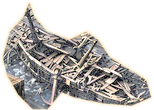
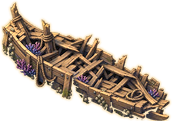
Dock map: new painted shipwreck (Scenario, dock picture style, no flags) replaces the wreck cut from the picture
Claude-Session: https://claude.ai/code/session_01FD443agZjoLT4rrjxRyuet

diff --git a/build_tools/art/brinewake_dock_props.py b/build_tools/art/brinewake_dock_props.py
@@ -6,7 +6,10 @@ ship in the middle just without the flags and a little bit less obstacles".
 The automatic cut-out (arena_props.py, rembg) loses these dark objects in the
 dark dock floor, so each piece is cut with a traced outline instead.
 Writes art/maps/arena_look/brinewake/prop_<name>.png:
-  wreck       the shipwreck, drawn as the centrepiece on (7, 7)
+  wreck       the shipwreck, drawn as the centrepiece on (7, 7). Mauro 5 Oct
+              2026: "do your own ship, that looks like you copy and paste a bad
+              image". Painted with Scenario (style from the dock picture, no
+              flags) and cut from its black backdrop: refs/brinewake_wreck_painted.png
   wreck_side  clear 1x1: the wreck's flank cells (they block, the art is the centrepiece)
   coral_rock  barnacled coral rock (obstacle)
   crate       braced cargo crate (obstacle)
@@ -20,6 +23,8 @@ import os
 from PIL import Image, ImageDraw, ImageEnhance, ImageFilter
 
 REF = "art/maps/arena_look/refs/brinewake_look.jpg"
+WRECK = "art/maps/arena_look/refs/brinewake_wreck_painted.png"
+WRECK_W = 168
 OUT = "art/maps/arena_look/brinewake/"
 MAX_H = 92
 # Brightness lift (see cut).
@@ -32,9 +37,6 @@ RIM_ALPHA = 210
 
 # name -> (outline polygons in picture px, sprite width in board px, max height)
 PIECES = {
-    "wreck": ([[(1270, 470), (1318, 418), (1338, 368), (1356, 418), (1400, 468), (1480, 498), (1540, 470),
-                (1582, 500), (1622, 560), (1700, 608), (1750, 640), (1768, 700), (1700, 730), (1600, 722),
-                (1500, 702), (1452, 682), (1402, 742), (1350, 742), (1300, 692), (1260, 622), (1245, 560)]], 150, 140),
     "coral_rock": ([[(1800, 470), (1835, 468), (1845, 490), (1825, 520), (1830, 560), (1860, 580), (1880, 610),
                      (1870, 640), (1820, 650), (1760, 648), (1720, 640), (1708, 610), (1715, 570), (1740, 545),
                      (1760, 520), (1770, 495), (1785, 480)]], 46, MAX_H),
@@ -72,19 +74,6 @@ def cut(img, polys, width, max_h):
     return rgb
 
 
-def calm_water(sprite):
-    """Mauro 5 Oct 2026 ("improve the map I told you I like"): the wreck keeps
-    some of the picture's sea around it; tone the blue down so the hull reads."""
-    px = sprite.load()
-    for y in range(sprite.height):
-        for x in range(sprite.width):
-            r, g, b, a = px[x, y]
-            if a and b > r + 25:
-                grey = (r + g + b) // 3
-                px[x, y] = ((r + grey) // 2, (g + grey) // 2, (b + grey) // 2 + 4, a * 3 // 4)
-    return sprite
-
-
 def rim(sprite, pad=RIM_PAD):
     """Soft warm rim so each piece stands out from the dark dock planks
     (Mauro: obstacles you cannot see or tell apart). No bottom pad: the
@@ -106,11 +95,19 @@ def main():
     os.makedirs(OUT, exist_ok=True)
     for name, (polys, width, max_h) in PIECES.items():
         sprite = cut(img, polys, width, max_h)
-        if name == "wreck":
-            sprite = calm_water(sprite)
         sprite = rim(sprite)
         sprite.save(os.path.join(OUT, "prop_%s.png" % name), optimize=True)
         print(name, sprite.size)
+    wreck = Image.open(WRECK).convert("RGBA")
+    wreck = wreck.resize((WRECK_W, round(wreck.height * WRECK_W / wreck.width)), Image.LANCZOS)
+    # Small on the board the hull's inner shadows close up; open them a little.
+    alpha = wreck.getchannel("A")
+    rgb = wreck.convert("RGB").point(lambda v: round(255 * (v / 255.0) ** 0.8))
+    rgb = ImageEnhance.Brightness(rgb).enhance(1.2)
+    rgb.putalpha(alpha)
+    wreck = rim(rgb)
+    wreck.save(os.path.join(OUT, "prop_wreck.png"), optimize=True)
+    print("wreck", wreck.size)
     Image.new("RGBA", (1, 1), (0, 0, 0, 0)).save(os.path.join(OUT, "prop_wreck_side.png"))
     print("wreck_side hidden")
 

diff --git a/docs/CHANGE_LOG_CLAUDE.md b/docs/CHANGE_LOG_CLAUDE.md
@@ -144,7 +144,7 @@ on those branches) → the in-game **Actualizar** button.
 | (docs) | **PC team: only PC** (Mauro 2 Oct 2026: "the new team should only touch the pc documents"). `docs/PC_TEAM_HANDOFF.md`: PC team writes only `main` (via PRs) and `pc/*` branches, only PC docs (`docs/CHANGE_LOG_PC.md`, `docs/pc/`, the handoff); phone docs and branches are read-only for them; no APKs. No game change | Mauro | see PC-only commit |
 | (docs) | **PC team job: finish Crosshaven** (Mauro 2 Oct 2026: "Dont give instruccions to work on the characters just keep building the map dungeons npc with a story side line mission etc etc focus in finishing only crosshaven"). `docs/PC_TEAM_HANDOFF.md`: map (11 zones), dungeon entrance to Threshgate, NPCs, story, side missions; story / quests are proposals until Mauro approves; no character work, no other regions, no rule changes; start from `cursor/crosshaven-v6-world-2bb7`. No game change | Mauro | see Crosshaven-focus commit |
 | 0.1.116 | **The dock map (Brinewake Koliseo) rebuilt like Mauro's dock picture** (Mauro 5 Oct 2026: "obstacles have to be something above the ground ... that a ship could have or a dock has", then after previews "dont put too many obstacles / Dont do the flag / I really like the rocks that looks like coral and the plants ... that map that you sent me its even better the ship in the middle just without the flags and a little bit less obstacles"). Pieces cut by traced outline from `art/maps/arena_look/refs/brinewake_look.jpg` (the automatic cut lost them in the dark floor) and lifted to the board's lighting: `build_tools/art/brinewake_dock_props.py` writes `prop_wreck` (shipwreck), `prop_coral_rock`, `prop_crate`, `prop_chest`, `prop_coral`, `prop_wreck_side` (clear). Layout `build_tools/art/brinewake_dock_layout.py` (tags + the Tiled file): 11 obstacle tiles / 9 pieces instead of 13 — the wreck across (6,7) (7,7) (8,7) drawn once as the centrepiece, coral rocks (3,3) (11,3) (3,11) (11,11), crates (7,2) (7,12), chests (1,4) (13,10); coral plants on six water tiles; driftwood, rubble, ruins, fences (flags) and the old dark rock / pillar holes removed; the eight raised blocks hugging the middle flattened so the wreck shows. `CellTagMap.BLOCKING_PROPS` + coral_rock / crate / chest / wreck_side (block walk and sight). `ArenaLook` brinewake centrepiece "wreck" only where the tags carry `wreck_side` (the Brinewake dungeon rooms do not get it); a centrepiece tile draws one row higher so the tiles in front do not cut it. Obstacle glow now sits under the obstacle (it hid the dark pieces) and only bare holes get the shade. Test: Koliseo maps `_test_brinewake_dock_layout`. Stamp 0.1.116 (code 117). All 24 suites pass | Mauro | see 0.1.116 commits |
-| 0.1.117 | **Dock map pieces easier to see** (Mauro 5 Oct 2026: "I like this one can you just improve it a little more", then "Improve the map i told you i like"). Same layout and pieces as 0.1.116. `build_tools/art/brinewake_dock_props.py`: shadows opened (gamma 0.62) before the lift (1.75) so the coral rocks and wreck are no longer black on the planks; a soft warm rim around every piece (wreck, coral rocks, crates, chests, coral plants) so obstacles stand out from the floor; the sea patch cut with the wreck toned down so the hull reads. Stamp 0.1.117 (code 118). All 24 suites pass | Mauro | see 0.1.117 commits |
+| 0.1.117 | **Dock map pieces easier to see** (Mauro 5 Oct 2026: "I like this one can you just improve it a little more", then "Improve the map i told you i like"). Same layout and pieces as 0.1.116. `build_tools/art/brinewake_dock_props.py`: shadows opened (gamma 0.62) before the lift (1.75) so the coral rocks and wreck are no longer black on the planks; a soft warm rim around every piece (wreck, coral rocks, crates, chests, coral plants) so obstacles stand out from the floor; **new shipwreck painted for the game** (Mauro: "Can you just do your own ship that looks like you copy and paste a bad image"): made with Scenario from the dock picture's style (no flags, no water), cut from its black backdrop into `art/maps/arena_look/refs/brinewake_wreck_painted.png`; `brinewake_dock_props.py` now scales it to 168 px, opens its shadows a little and adds the same rim; it replaces the wreck cut from the picture. Same cells, still blocks walk and sight. Stamp 0.1.117 (code 118). All 24 suites pass | Mauro | see 0.1.117 commits |
 | 0.1.115 | **The walk-blocked marks match each map instead of red** (Mauro 5 Oct 2026: "Instead of being red make look a style with the map just make it obvious that its a cell that you cannot use maybe the water tiles you should already know you cannot walk there but maybe put it like a glow"). `SnapshotTiles.walk_block_kind`: "liquid" (water / mud / lava) or "block" (hole / solid obstacle). `BoardTile._paint_walk_blocked` draws a soft inner glow (four fading rings): liquid tiles only glow in their own colour (water cyan, mud tan, lava orange); holes and obstacles get a light shade plus a glow in the map accent (`BLOCK_GLOW`: Brinewake sea-teal, Slagcrown ember, Windmere ice, Stormspire violet, Crosshaven gold). Captures of all five maps sent to Mauro, with the Brinewake dock obstacles shown. Test: liquid vs block kinds on every map. Stamp 0.1.115 (code 116). All 24 suites pass | Mauro | see 0.1.115 commits |
 | 0.1.114 | **Tiles you cannot walk onto are marked on every map** (Mauro 5 Oct 2026, Brinewake screenshot, "REJECT — illegal move (not_walkable)": "All tiles that are obstacles or cannot be walked in please make it different ... lets change in all maps"). `SnapshotTiles.walk_blocked` (water, mud, lava, void, or a tile the map marks unwalkable — solid obstacles; the snapshot's per-tile `walkable` is now kept) → `BoardTile.set_walk_blocked` from `board_view._apply_board_tiles`; the tile's highlight overlay draws a dark shade (`WALK_BLOCKED_SHADE`) and a red inner border (`WALK_BLOCKED_LINE`) under the move / spell highlights. Same in Koliseo, hot-seat, online and Stasis rooms. Checked on Brinewake, Slagcrown, Windmere, Stormspire and Crosshaven captures. Test: Koliseo maps `_test_walk_blocked_tiles_marked` (the marked tiles are exactly the ones the sim refuses a walk onto, on all five maps). Stamp 0.1.114 (code 115). All 24 suites pass | Mauro | see 0.1.114 commits |
 | 0.1.113 | **Fighters face each other while placing too** (Mauro 5 Oct 2026, deployment screenshot: "Players are not facing each other"; 0.1.112 only turned them when both sides were Ready). `CombatSim._submit_place` now calls `_face_opponents` after every place / reposition, so each placed fighter already looks at its nearest placed enemy during deployment; Ready still re-faces at the start. Checked on the board: Kestrel at (7,6) faces N toward Ironjaw at (7,1), who faces S toward her. Test: the both-ready test checks facings while placing. Stamp 0.1.113 (code 114). All 24 suites pass | Mauro | see 0.1.113 commits |
